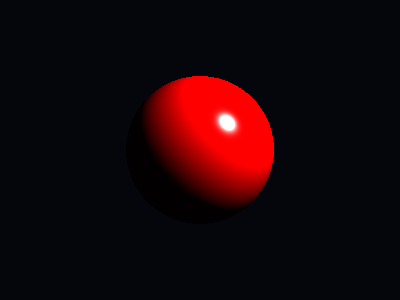
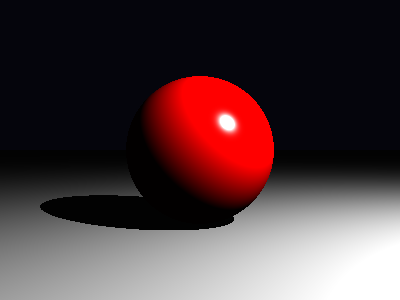
feat: Implement rendering functionality in Film class and update main script to utilize it

diff --git a/src/ray_tracing_1/main.py b/src/ray_tracing_1/main.py
@@ -17,9 +17,10 @@ import glm
 from ray_tracing_1.ray import Ray
 from ray_tracing_1.camera import Camera
 from ray_tracing_1.scene import Scene
-from ray_tracing_1.shape import Sphere
+from ray_tracing_1.shape import Plane, Sphere
 from ray_tracing_1.material import PhongMaterial
 from ray_tracing_1.light import PointLight
+from ray_tracing_1.film import Film
 
 
 def render():
@@ -33,33 +34,25 @@ def render():
   """
   # Resolução de saída
   W, H = 400, 300
+  film = Film(width=W, height=H)
+  cam = Camera(eye=glm.vec3(0, 0, 5), center=glm.vec3(0, 0, 0), up=glm.vec3(0, 1, 0), fov=45.0, width=W, height=H)
 
-  # Câmera: olho posicionado em (0,0,5), olhando para origem
-  cam = Camera(eye=glm.vec3(0, 0, 5), center=glm.vec3(0, 0, 0), up=glm.vec3(0, 1, 0), fov=45, width=W, height=H)
+  # Definição de Materiais
+  mat_red = PhongMaterial(ambient=glm.vec3(0.1, 0, 0), diffuse=glm.vec3(0.7, 0, 0), specular=glm.vec3(1, 1, 1), shininess=50.0)
+  mat_gray = PhongMaterial(ambient=glm.vec3(0.1), diffuse=glm.vec3(0.5), specular=glm.vec3(0.0), shininess=1.0)
 
-  # Monta a cena: um objeto (esfera) com material Phong e uma luz pontual
+  # Monta a cena
   scene = Scene()
-  mat_red = PhongMaterial(ambient=glm.vec3(0.1, 0, 0),
-                         diffuse=glm.vec3(0.7, 0, 0),
-                         specular=glm.vec3(1, 1, 1),
-                         shininess=50)
+
+  # Objetos: A Esfera e o Plano (Chão) para receber a sombra
   scene.objects.append(Sphere(center=glm.vec3(0, 0, 0), radius=1.0, material=mat_red))
-  scene.lights.append(PointLight(pos=glm.vec3(5, 5, 5), power=glm.vec3(150, 150, 150)))
+  scene.objects.append(Plane(pos=glm.vec3(0, -1.0, 0), normal=glm.vec3(0, 1, 0), material=mat_gray))
 
-  # Loop de render: amostragem central do pixel e conversão para uint8
-  img = np.zeros((H, W, 3), dtype=np.uint8)
-  for j in range(H):
-    for i in range(W):
-      # Coordenadas normalizadas do centro do pixel
-      xn, yn = (i + 0.5) / W, (j + 0.5) / H
-      ray = cam.generate_ray(xn=xn, yn=yn)
-      # Avalia a cor via Scene.trace_ray e limita valores entre 0 e 1
-      color = glm.clamp(scene.trace_ray(ray=ray), 0, 1)
-      img[j, i] = (color * 255)
+  # Fonte de Luz
+  scene.lights.append(PointLight(pos=glm.vec3(5, 5, 5), power=glm.vec3(150.0)))
 
-  # Salva o resultado em disco
-  Image.fromarray(img).save("render_final.png")
-  print("Renderização concluída. Imagem salva como 'render_final.png'.")
+  # Renderiza a cena usando o Film para iterar sobre os pixels e salvar a imagem
+  film.render(scene=scene, camera=cam, filename="render_final.png")
 
 if __name__ == "__main__":
     render()

diff --git a/src/ray_tracing_1/film.py b/src/ray_tracing_1/film.py
@@ -4,6 +4,9 @@ from PIL import Image
 import glm
 import numpy as np
 
+from ray_tracing_1.camera import Camera
+from ray_tracing_1.scene import Scene
+
 class Film:
   def __init__(self, width: int, height: int):
     self.width = width
@@ -18,7 +21,19 @@ class Film:
     """Retorna as coordenadas normalizadas (0 a 1) para o pixel (i, j)"""
     return (i + 0.5) / self.width, (j + 0.5) / self.height
   
-  def save(self, filename: str) -> None:
+  def render(self, scene: Scene, camera: Camera, filename: str) -> None:
+    print("Renderizando a cena...")    
+    for j in range(self.height):
+      for i in range(self.width):
+        # Obtém as coordenadas normalizadas via Film (ideal para futuro Antialiasing)
+        xn, yn = self.get_sample(i, j)
+        # Gera o raio primário e avalia a cor via Scene.trace_ray        
+        ray = camera.generate_ray(xn, yn)
+        color = scene.trace_ray(ray)
+        # Define a cor do pixel no buffer do Film        
+        self.set_pixel(i, j, color)
+    # Converte o buffer para uint8 e salva a imagem usando PIL
     img_data = np.clip(self.image * 255, 0, 255).astype(np.uint8)
     img = Image.fromarray(img_data)
     img.save(filename)
+    print(f"Imagem salva em {filename}")
